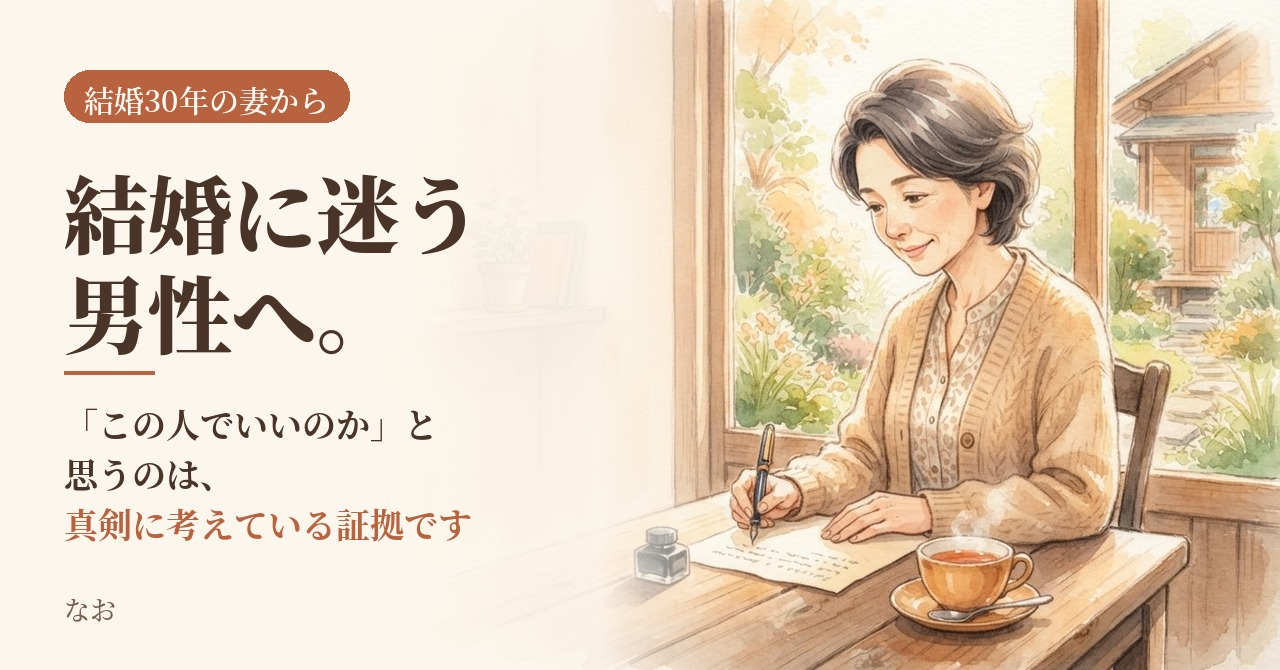
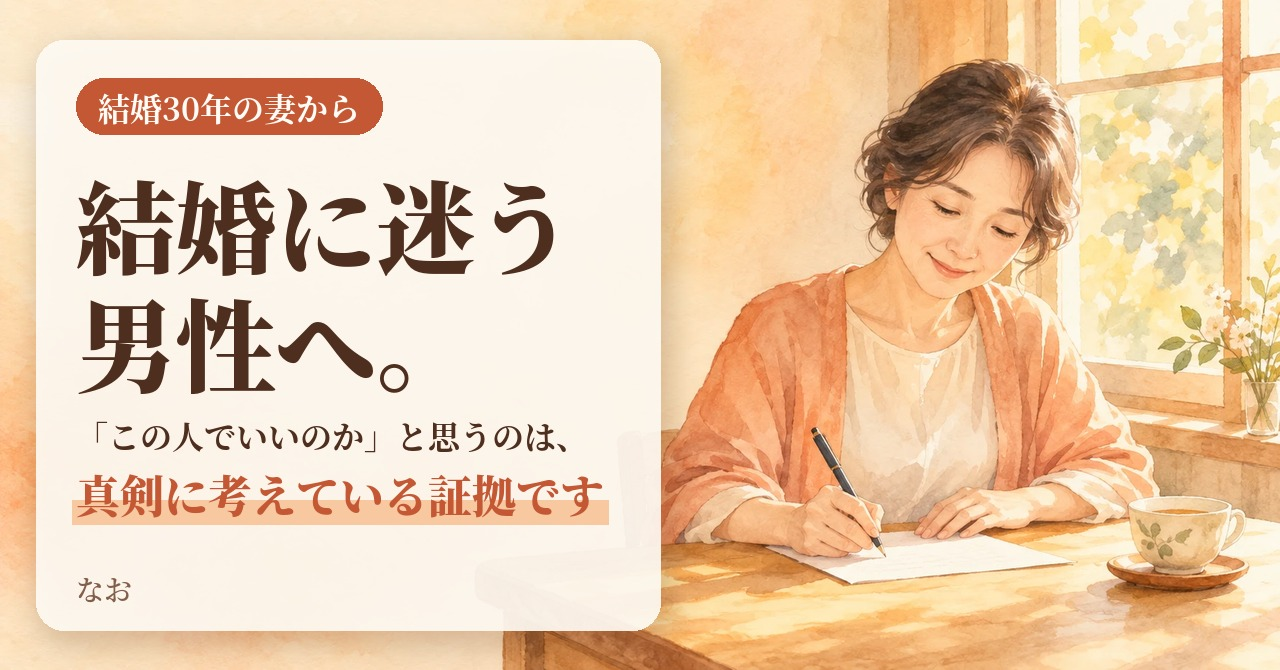
Remake Nao draft 01 header with bolder title card
Claude-Session: https://claude.ai/code/session_01AESfzsEKybeqr6zTkGH6bc

diff --git a/nao/images/make-header.py b/nao/images/make-header.py
@@ -1,0 +1,34 @@
+from PIL import Image, ImageDraw, ImageFont, ImageFilter
+import sys
+src=sys.argv[1]  # 元の画像（文字なし）
+F=sys.argv[2]  # NotoSerifJP の .otf があるフォルダ（末尾に NotoSerifJP-）
+im=Image.open(src).convert('RGB')
+W,H=1280,670
+s=max(W/im.width,H/im.height)
+im=im.resize((round(im.width*s),round(im.height*s)),Image.LANCZOS)
+l=(im.width-W)//2; t=(im.height-H)//2; im=im.crop((l,t,l+W,t+H)).convert('RGBA')
+def f(w,s): return ImageFont.truetype(F+w+'.otf',s)
+ink=(78,46,30); accent=(196,88,52); white=(255,252,247)
+x=56
+# soft white card with shadow
+card=[36,40,660,630]
+sh=Image.new('RGBA',(W,H),(0,0,0,0)); ImageDraw.Draw(sh).rounded_rectangle([c+o for c,o in zip(card,(6,10,6,10))],radius=28,fill=(150,80,40,70))
+im=Image.alpha_composite(im,sh.filter(ImageFilter.GaussianBlur(14)))
+ov=Image.new('RGBA',(W,H),(0,0,0,0)); ImageDraw.Draw(ov).rounded_rectangle(card,radius=28,fill=(255,251,244,232))
+im=Image.alpha_composite(im,ov)
+d=ImageDraw.Draw(im)
+x=card[0]+40
+lab=f('Bold',32); tx='結婚30年の妻から'
+d.rounded_rectangle([x,78,x+d.textlength(tx,font=lab)+44,78+56],radius=28,fill=accent)
+d.text((x+22,84),tx,font=lab,fill=white)
+big=f('Black',100)
+d.text((x,150),'結婚に迷う',font=big,fill=ink)
+d.text((x,268),'男性へ。',font=big,fill=ink)
+sub=f('Bold',32)
+d.text((x,412),'「この人でいいのか」と思うのは、',font=sub,fill=ink)
+hl=f('Black',44); tx='真剣に考えている証拠です'
+y=462; tw=d.textlength(tx,font=hl)
+d.rectangle([x-4,y+38,x+tw+4,y+62],fill=(248,200,160))
+d.text((x,y),tx,font=hl,fill=accent)
+d.text((x,568),'なお',font=f('SemiBold',28),fill=(130,95,75))
+im.convert('RGB').save(sys.argv[3],quality=92)

diff --git a/brands/nao.md b/brands/nao.md
@@ -50,11 +50,12 @@
 - 下書き01の画像プロンプトを作った → `nao/image-prompts-01.md`（見出し画像1枚＋記事の中に3枚。水彩・あたたかい色・文字なし）
 - 「ほかの記事」のリンクは、あとで入れることにした（オーナーより）
 - 見出し画像：オーナーが作った画像に、Claude がタイトルの文字を入れた → `nao/images/01-header.jpg`（1280×670、文字は Noto Serif JP）
+  - 2026-10-15：オーナーが絵を作り直した → 目につくように作り直し（白いカードの上に大きな文字、「真剣に考えている証拠です」にマーカー）。作り方は `nao/images/make-header.py`
   - **見出し画像のルール：サムネイルの代わりになるので、タイトルの文字を入れる。AI で作る絵は文字なし・左側を空けておき、文字はあとから Claude が入れる**
 
 ## 次にやること
 1. note：下書き01を公開（ステップ4・案内済み）
-   - 見出し画像は `nao/images/01-header.jpg`（完成・オーナーに送り済み）
+   - 見出し画像は `nao/images/01-header.jpg`（2026-10-15 に作り直し・オーナーに送り済み）
    - 記事の中の画像3枚をオーナーが作って入れる（プロンプトは `nao/image-prompts-01.md` の②③④）
    - 「ほかの記事」リンクはあとで入れる。古い記事2本にも01のリンクを足す
 2. 公開したら → X で紹介（`nao/x-posts-new-articles.md`）。3〜4日後に02を公開
